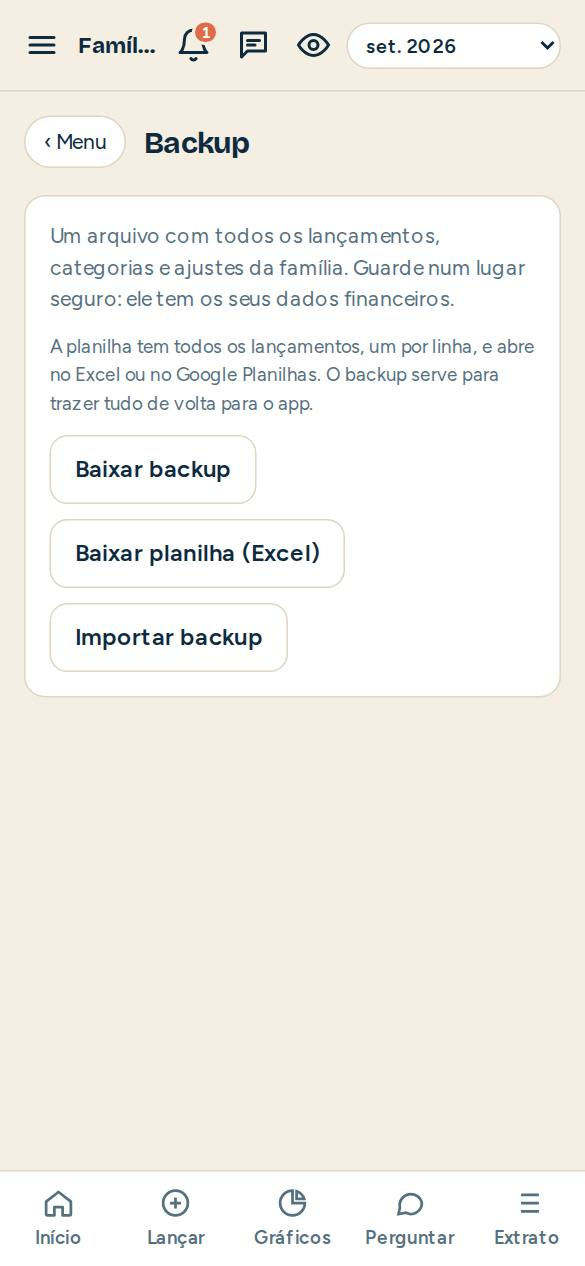
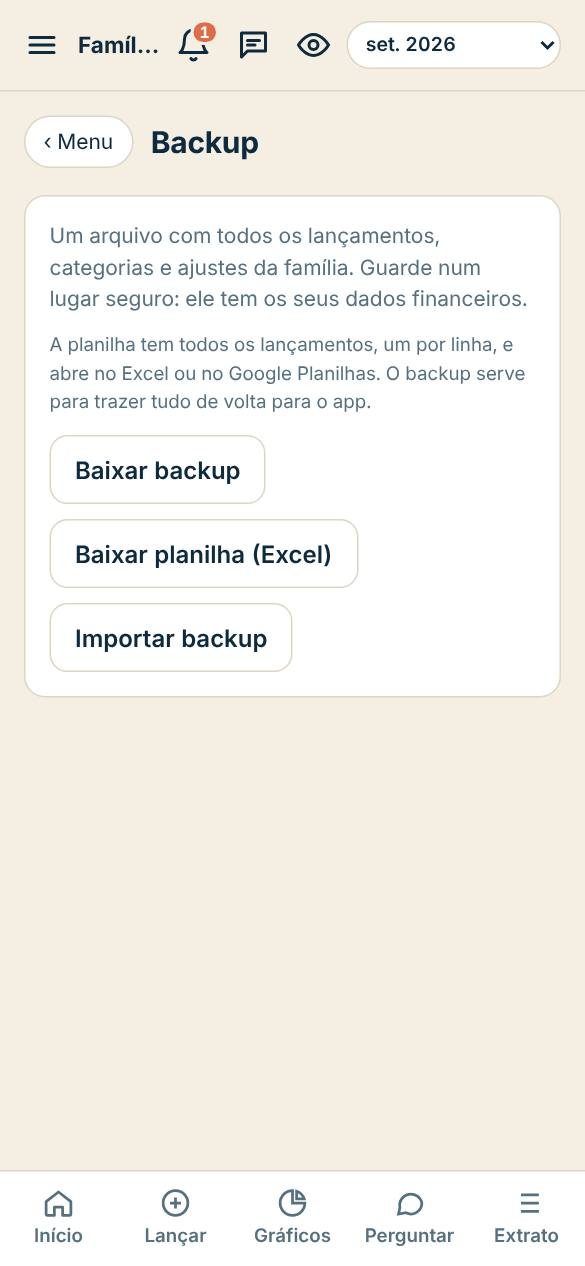
v77: screenshot tools open the menu group before tapping an item
Claude-Session: https://claude.ai/code/session_01HTxyDPPEQrF1SknoQ9axHM

diff --git a/public/js/lib/releases.js b/public/js/lib/releases.js
@@ -182,4 +182,5 @@ export const RELEASES = [
     { id: 'menu_em_grupos', title: 'Menu ☰ em grupos, como a Central', status: 'feito', origin: 'Luiz', effort: 'P', problem: 'Com 15 itens, o menu ficou comprido e confuso', cost: false, notes: '4 grupos que abrem ao tocar (um por vez); o da página atual abre sozinho; ponto colorido no grupo quando as notificações estão desligadas.', from: [], where: 'Menu ☰' },
     { id: 'importar_planilha', title: 'Trazer os lançamentos de uma planilha (Excel ou Google Planilhas)', status: 'proximo', origin: 'Ideia da Paty (parte 2) e Luiz', effort: 'M', problem: 'Quase todo mundo já controla os gastos numa planilha; recomeçar do zero afasta', cost: false, notes: 'Enviar o arquivo .xlsx ou .csv em Lançar. O app acha sozinho as colunas de data, descrição, valor e categoria (e pergunta só se tiver dúvida), mostra a revisão como numa fatura, usa as categorias da pessoa (cria as que faltam, com confirmação) e não duplica o que já veio pela fatura ou pelo extrato. A planilha não fica guardada.', from: [], where: 'Lançar → Fatura ou extrato (ou planilha)' },
   ] },
+  { id: 'r77', version: 'v77', at: '2026-11-04T04:10:00Z', backlog: [], semNovidade: 'Só o robô que tira as telas da Central: ele abre o grupo certo do menu novo antes de tocar no item.' },
 ];

diff --git a/public/sw.js b/public/sw.js
@@ -1,6 +1,6 @@
 // Service worker: caches the app shell so it opens fast and installs as an app.
 // Data and /api calls always go to the network.
-const VERSION = 'v76';
+const VERSION = 'v77';
 const SHELL = ['/', '/index.html', '/css/app.css', '/js/main.js', '/js/db.js', '/js/ai.js', '/js/ui.js', '/js/state.js', '/js/speech.js', '/js/tour.js', '/js/steps.js', '/js/onboarding.js', '/js/art.js', '/js/install.js', '/js/push.js', '/js/metrics.js', '/js/privacy.js', '/js/lib/recurring.js', '/js/lib/settle.js', '/js/photos.js', '/js/menu.js', '/js/coach.js', '/js/views/graficos.js', '/js/views/fechar.js', '/js/lib/closing.js', '/js/lib/charts.js', '/js/lib/receipt.js', '/js/lib/insights.js', '/js/lib/budget.js', '/js/lib/pricing.js', '/js/lib/faq.js', '/js/feedback.js', '/js/usage.js', '/js/lib/navlog.js', '/js/applepay.js', '/js/lib/quick.js', '/js/lib/feed.js', '/js/messages.js', '/js/lib/news.js',
   '/js/lib/format.js', '/js/lib/calc.js', '/js/lib/categorize.js', '/js/lib/parse.js', '/js/lib/validate.js',
   '/js/views/resumo.js', '/js/views/lancar.js', '/js/views/perguntar.js', '/js/views/extrato.js', '/js/views/ajustes.js',

diff --git a/public/js/usage.js b/public/js/usage.js
@@ -5,7 +5,7 @@ import * as db from './db.js';
 import { S } from './state.js';
 import { tapCell, tapLabel, cleanError } from './lib/navlog.js';
 
-export const APP_VERSION = 'v76';
+export const APP_VERSION = 'v77';
 const OK = /^[a-z_]{2,20}(\.[a-z_]{2,20})?$/;
 export const device = () => { const u = navigator.userAgent; return (/iphone|ipad/i.test(u) ? 'iPhone' : /android/i.test(u) ? 'Android' : /mac/i.test(u) ? 'Mac' : /windows/i.test(u) ? 'Windows' : 'Outro') + (window.matchMedia?.('(display-mode: standalone)').matches || navigator.standalone ? ' · app instalado' : ' · navegador'); };
 export const screenOf = () => S.tab === 'ajustes' ? 'menu.' + (S.sec || 'familia') : S.tab === 'resumo' ? 'inicio' : (S.tab || '');
